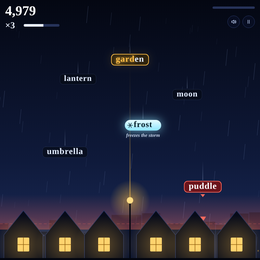
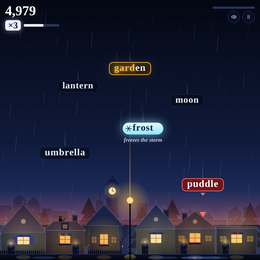
Word Rain: a varied, detailed town
Every run (and every daily) gets its own street, seeded: gable, steep, flat, mansard and tower houses with different walls, roofs, chimneys, doors, awnings, shutters, planters, fences and window light. Behind them a hazy skyline with a clock tower and a blinking beacon, pines and bare trees, mist. In front a wet road with puddles that the rain dimples and the lamp and windows reflect. Small life: chimney smoke that drifts with the wind, a weathervane, a cat on a roof, twinkling far windows. Each house's big lit window is still its life; the rest are furniture and a lost house goes dark all over.

Claude-Session: https://claude.ai/code/session_01PtZ1mk47fZhH4JVthMJCco

diff --git a/games/word_rain.html b/games/word_rain.html
@@ -416,30 +416,182 @@ function resize() {
   cv.width = Math.round(W * dpr); cv.height = Math.round(H * dpr);
   fs = clamp(16 + W * 0.014, 22, 36);
   groundH = clamp(H * 0.23, 90, 180);
-  roofY = H - groundH * 0.62;
+  roofY = H - groundH * 0.7;
   padTop = clamp(H * 0.17, 108, 132);
   lampX = W / 2; lampY = H - groundH * 1.02;
   ctx.setTransform(dpr, 0, 0, dpr, 0, 0);
   ctx.font = '600 ' + fs + 'px ' + FONT;
   charW = ctx.measureText('abcdefghijklmnopqrstuvwxyz').width / 26 / W + 0.0045;
   if (game) { game.cfg.charW = charW; game.cfg.aspect = W / (roofY - padTop); }
+  if (!town) town = makeTown((Math.random() * 4294967296) >>> 0);
   buildSky();
   const n = REDUCED ? 45 : clamp(Math.round(W * H / 5500), 90, 260);
   while (rain.length < n) rain.push({ x: rnd(0, 1), y: rnd(0, 1), d: Math.random() });
   rain.length = n;
 }
+/* ---------- the town: seeded, so every run (and every daily) has its own street ---------- */
+let town = null;
+const streetH = () => clamp(groundH * .1, 11, 20);
+function makeTown(seed) {
+  const r = WR.rng((seed ^ 0x9e3779b9) >>> 0), pick = a => a[Math.floor(r() * a.length)];
+  const roofs = ['gable', 'steep', 'flat', 'mansard', 'tower', pick(['gable', 'steep', 'mansard'])];
+  for (let i = roofs.length - 1; i > 0; i--) { const j = Math.floor(r() * (i + 1)); [roofs[i], roofs[j]] = [roofs[j], roofs[i]]; }
+  const walls = [['#0d1631', '#070b19'], ['#101a36', '#080c1c'], ['#0f1830', '#060a16'], ['#14172f', '#080a1a'], ['#0b1a2e', '#050d1a']];
+  const roofCols = ['#1a2447', '#201c3d', '#14304a', '#2a1f3a', '#17283f'];
+  const glows = ['255,206,110', '255,184,92', '255,224,160', '255,196,120'];
+  const accents = ['#6e2c3a', '#2c5b63', '#6b5a2a', '#3d3a73'];
+  const hs = roofs.map((roof, i) => ({
+    roof, w: roof === 'tower' ? .8 : .86 + .14 * r(), h: roof === 'flat' ? .95 + .25 * r() : .82 + .3 * r(),
+    chim: roof === 'flat' || roof === 'tower' ? 0 : (r() < .75 ? (r() < .5 ? -1 : 1) : 0), door: r() < .85, doorSide: r() < .5 ? -1 : 1,
+    awning: r() < .4, shutters: r() < .5, planter: r() < .5, fence: r() < .45, sign: roof === 'flat' && r() < .6,
+    wall: pick(walls), roofCol: pick(roofCols), glow: pick(glows), accent: pick(accents), extra: r() < .6 ? 2 : 1, flowers: pick(['#c0556b', '#d9a441', '#7a7fe0']), phase: r() * 9, acc: 0,
+  }));
+  const cat = hs.findIndex(h => h.roof === 'gable' || h.roof === 'mansard');
+  const trees = [], tx = [.03, .17, .33, .46, .54, .67, .83, .97];
+  for (const x of tx) if (r() < .85) trees.push({ x: x + (r() - .5) * .03, kind: r() < .6 ? 'pine' : 'bare', s: .8 + .5 * r() });
+  const puddles = [];
+  for (let k = 0; k < 6; k++) puddles.push({ x: .06 + .88 * r(), w: .04 + .05 * r() });
+  return { hs, cat, trees, puddles, seed, far: [], smoke: [], ripples: [], ripT: 0 };
+}
 function buildSky() {
   const c = document.createElement('canvas'); c.width = Math.round(W * dpr); c.height = Math.round(H * dpr);
   const g = c.getContext('2d'); g.setTransform(dpr, 0, 0, dpr, 0, 0);
-  const gr = g.createLinearGradient(0, 0, 0, H); gr.addColorStop(0, '#040712'); gr.addColorStop(.62, '#0f1a3b'); gr.addColorStop(1, '#1d2d5c');
+  const gr = g.createLinearGradient(0, 0, 0, H); gr.addColorStop(0, '#040712'); gr.addColorStop(.55, '#0f1a3b'); gr.addColorStop(.86, '#25356b'); gr.addColorStop(1, '#2d2a55');
   g.fillStyle = gr; g.fillRect(0, 0, W, H);
-  let seed = 11; const r = () => (seed = seed * 16807 % 2147483647) / 2147483647;
-  let x = -10;
-  while (x < W) { const w = 36 + r() * 56, h = groundH * (0.45 + r() * 0.4); g.fillStyle = '#0c1530'; g.fillRect(x, H - h, w, h);
-    for (let k = 0; k < 3; k++) if (r() < .4) { g.fillStyle = r() < .5 ? '#22305f' : 'rgba(255,191,71,.35)'; g.fillRect(x + 6 + r() * (w - 14), H - h + 8 + r() * (h - 24), 4, 5); }
-    x += w + 2; }
-  skyCache = c;
+  // a few stars where the clouds allow
+  const r = WR.rng((town ? town.seed : 7) + 5);
+  for (let i = 0; i < 26; i++) { g.fillStyle = 'rgba(210,225,255,' + (.12 + r() * .3) + ')'; g.fillRect(r() * W, r() * H * .4, 1.4, 1.4); }
+  const base = H - streetH(), gh = groundH;
+  // hills, then two skylines: hazy far, darker near
+  g.fillStyle = '#16204a'; g.beginPath(); g.moveTo(0, base);
+  for (let x = 0; x <= W; x += 12) g.lineTo(x, base - gh * (.5 + .16 * Math.sin(x / W * 5.2 + r() * 0) + .1 * Math.sin(x / W * 13)));
+  g.lineTo(W, base); g.fill();
+  town.far = [];
+  const skyline = (col, minH, maxH, minW, maxW, lit) => {
+    let x = -8; g.fillStyle = col;
+    while (x < W) {
+      const w = minW + r() * (maxW - minW), h = gh * (minH + r() * (maxH - minH)), t = r(), y = base - h;
+      g.fillStyle = col; g.fillRect(x, y, w, h);
+      if (t < .2) { g.beginPath(); g.moveTo(x, y); g.lineTo(x + w / 2, y - w * .45); g.lineTo(x + w, y); g.fill(); }
+      else if (t < .32) { g.fillRect(x + w * .45, y - gh * .16, 2, gh * .16); town.far.push({ x: x + w * .45 + 1, y: y - gh * .16, beacon: 1, ph: r() * 6 }); }
+      else if (t < .42) { g.fillRect(x + 3, y - 7, w * .3, 7); }
+      for (let k = 0, n = Math.floor(w * h / 520); k < n; k++) if (r() < lit) town.far.push({ x: x + 4 + r() * (w - 10), y: y + 6 + r() * (h - 14), ph: r() * 6, a: .25 + r() * .5 });
+      x += w + 1 + r() * 4;
+    }
+  };
+  skyline('#141e44', .45, .95, 26, 54, .35);
+  // the clock tower and the water tower stand out of the far skyline
+  const cx = W * (.2 + .6 * r()), th = gh * 1.18, tw = clamp(W * .045, 26, 44);
+  g.fillStyle = '#121b3f'; g.fillRect(cx - tw / 2, base - th, tw, th); g.beginPath(); g.moveTo(cx - tw / 2 - 3, base - th); g.lineTo(cx, base - th - tw * .9); g.lineTo(cx + tw / 2 + 3, base - th); g.fill();
+  town.clock = { x: cx, y: base - th + tw * .5, r: tw * .3 };
+  skyline('#0c1533', .3, .72, 22, 46, .3);
+  // mist where the street meets the sky
+  const mg = g.createLinearGradient(0, base - gh * .9, 0, base); mg.addColorStop(0, 'rgba(90,110,190,0)'); mg.addColorStop(1, 'rgba(90,110,190,.22)'); g.fillStyle = mg; g.fillRect(0, base - gh * .9, W, gh * .9);
+  // trees behind the houses
+  for (const t of town.trees) {
+    const x = t.x * W, h = gh * .66 * t.s; g.fillStyle = '#080e22';
+    if (t.kind === 'pine') { for (let k = 0; k < 4; k++) { const y = base - h * (.15 + k * .22), w = h * (.34 - k * .06); g.beginPath(); g.moveTo(x - w, y); g.lineTo(x, y - h * .34); g.lineTo(x + w, y); g.fill(); } g.fillRect(x - 2, base - h * .2, 4, h * .2); }
+    else { g.strokeStyle = '#080e22'; g.lineWidth = 3; g.lineCap = 'round'; const br = (x0, y0, a, l, d) => { if (d > 3) return; const x1 = x0 + Math.sin(a) * l, y1 = y0 - Math.cos(a) * l; g.lineWidth = Math.max(1, 4 - d); g.beginPath(); g.moveTo(x0, y0); g.lineTo(x1, y1); g.stroke(); br(x1, y1, a - .5, l * .72, d + 1); br(x1, y1, a + .45, l * .7, d + 1); }; br(x, base, 0, h * .3, 0); }
+  }
+  skyCache = g.canvas;
 }
+function drawFar(t) {
+  if (!town) return;
+  for (const f of town.far) {
+    if (f.beacon) { const a = REDUCED ? .6 : (Math.sin(t * 2 + f.ph) > .6 ? 1 : .15); ctx.fillStyle = 'rgba(255,90,80,' + a + ')'; ctx.fillRect(f.x - 1.5, f.y - 3, 3, 3); continue; }
+    const a = f.a * (REDUCED ? 1 : .75 + .25 * Math.sin(t * .6 + f.ph)); ctx.fillStyle = 'rgba(255,205,120,' + a + ')'; ctx.fillRect(f.x, f.y, 3, 4);
+  }
+  if (town.clock) { const c = town.clock, g = ctx.createRadialGradient(c.x, c.y, 0, c.x, c.y, c.r * 2.6); g.addColorStop(0, 'rgba(255,225,160,.5)'); g.addColorStop(1, 'rgba(255,225,160,0)'); ctx.fillStyle = g; ctx.fillRect(c.x - c.r * 3, c.y - c.r * 3, c.r * 6, c.r * 6);
+    ctx.fillStyle = '#ffe6a8'; ctx.beginPath(); ctx.arc(c.x, c.y, c.r, 0, 7); ctx.fill(); ctx.strokeStyle = '#3a2a08'; ctx.lineWidth = 1.4; ctx.beginPath(); ctx.moveTo(c.x, c.y); ctx.lineTo(c.x, c.y - c.r * .75); ctx.moveTo(c.x, c.y); ctx.lineTo(c.x + c.r * .5, c.y + c.r * .15); ctx.stroke(); }
+}
+function roofGeom(T, hx, hw, bodyH, base) {
+  const topY = base - bodyH; let rh = 0, cut = hw / 2;
+  if (T.roof === 'gable') rh = hw * .42; else if (T.roof === 'steep') rh = hw * .62; else if (T.roof === 'mansard') rh = hw * .24; else if (T.roof === 'tower') rh = hw * .6; else rh = 0;
+  return { topY, rh, hw };
+}
+function drawHouse(i, dt, t) {
+  const T = town.hs[i], h = houses[i], hx = HOUSES[i] * W, st = streetH(), base = H - st;
+  const hw = clamp(W * .17, 56, 150) * T.w, bodyH = groundH * .4 * T.h * (T.roof === 'tower' ? 1.25 : 1);
+  const bw = T.roof === 'tower' ? hw * .82 : hw, topY = base - bodyH, left = hx - bw / 2, right = hx + bw / 2;
+  let on = h.lit ? 1 : 0;
+  if (h.flick > 0) { h.flick = Math.max(0, h.flick - dt * 1.6); on = h.lit ? 1 : (Math.sin(h.flick * 38) > 0 && h.flick > .25 ? 1 : 0); }
+  h.glow = Math.max(0, h.glow - dt * 1.2);
+  const rh = roofGeom(T, hx, hw, bodyH, base).rh, roofW = hw + (T.roof === 'flat' ? 0 : hw * .1);
+  const roofPath = () => {
+    ctx.beginPath();
+    if (T.roof === 'flat') { ctx.rect(left - 3, topY - 6, bw + 6, 6); }
+    else if (T.roof === 'mansard') { ctx.moveTo(hx - roofW / 2, topY); ctx.lineTo(hx - bw * .3, topY - rh); ctx.lineTo(hx + bw * .3, topY - rh); ctx.lineTo(hx + roofW / 2, topY); }
+    else if (T.roof === 'tower') { ctx.moveTo(hx - roofW / 2, topY); ctx.lineTo(hx, topY - rh); ctx.lineTo(hx + roofW / 2, topY); }
+    else { ctx.moveTo(hx - roofW / 2, topY + 2); ctx.lineTo(hx, topY - rh); ctx.lineTo(hx + roofW / 2, topY + 2); }
+    ctx.closePath();
+  };
+  const slopeY = x => { const d = Math.abs(x - hx) / (roofW / 2); return T.roof === 'mansard' ? topY - rh * Math.min(1, (1 - d) / .4) : topY - rh * (1 - d); };
+  // chimney, behind the roof, with smoke while the house is lit
+  if (T.chim) {
+    const cxx = hx + T.chim * bw * .26, cy = slopeY(cxx) - bw * .13, cw = bw * .12;
+    ctx.fillStyle = '#0a1024'; ctx.fillRect(cxx - cw / 2, cy, cw, bw * .2); ctx.fillStyle = '#18224a'; ctx.fillRect(cxx - cw / 2 - 1.5, cy - 3, cw + 3, 3.5);
+    if (on && !REDUCED && mode !== 'pause') { T.acc += dt; if (T.acc > .35) { T.acc = 0; town.smoke.push({ x: cxx, y: cy - 4, vx: -14 - 6 * WR.tierIndex(game ? game.wave : 1), vy: -26, r: 3, t: 0, life: 2.6 }); } }
+  }
+  // roof first for towers (spire), body, roof, details
+  ctx.fillStyle = T.wall[0]; ctx.strokeStyle = '#243464'; ctx.lineWidth = 1.4;
+  const wg = ctx.createLinearGradient(0, topY, 0, base); wg.addColorStop(0, T.wall[0]); wg.addColorStop(1, T.wall[1]); ctx.fillStyle = wg;
+  ctx.fillRect(left, topY, bw, bodyH); ctx.strokeRect(left, topY, bw, bodyH);
+  // siding lines and the lamp's warm light on the nearer wall
+  ctx.save(); ctx.beginPath(); ctx.rect(left, topY, bw, bodyH); ctx.clip(); ctx.strokeStyle = 'rgba(160,185,255,.07)'; ctx.lineWidth = 1;
+  for (let y = topY + 7; y < base; y += 7) { ctx.beginPath(); ctx.moveTo(left, y); ctx.lineTo(right, y); ctx.stroke(); }
+  const lamp = clamp(1 - Math.abs(hx - lampX) / (W * .3), 0, 1), lg = ctx.createLinearGradient(left, 0, right, 0), warm = .2 * lamp, side = hx < lampX;
+  lg.addColorStop(side ? 1 : 0, 'rgba(255,191,71,' + warm + ')'); lg.addColorStop(side ? .35 : .65, 'rgba(255,191,71,0)'); ctx.fillStyle = lg; ctx.fillRect(left, topY, bw, bodyH); ctx.restore();
+  ctx.fillStyle = T.roofCol; roofPath(); ctx.fill(); ctx.strokeStyle = 'rgba(140,165,255,.35)'; ctx.lineWidth = 1.4; ctx.stroke();
+  if (T.roof !== 'flat') { ctx.save(); roofPath(); ctx.clip(); ctx.strokeStyle = 'rgba(0,0,10,.28)'; ctx.lineWidth = 1; for (let y = topY - rh + 5; y < topY + 2; y += 5) { ctx.beginPath(); ctx.moveTo(hx - roofW, y); ctx.lineTo(hx + roofW, y); ctx.stroke(); } ctx.restore(); }
+  if (T.roof === 'flat') { ctx.strokeStyle = '#2a3a70'; ctx.lineWidth = 1.2; ctx.beginPath(); const ax = hx + bw * .25; ctx.moveTo(ax, topY - 6); ctx.lineTo(ax, topY - 24); ctx.moveTo(ax - 6, topY - 20); ctx.lineTo(ax + 6, topY - 20); ctx.moveTo(ax - 4, topY - 15); ctx.lineTo(ax + 4, topY - 15); ctx.stroke(); }
+  if (T.roof === 'tower' || T.roof === 'steep') { // weathervane
+    const px = hx, py = topY - rh, a = REDUCED ? .6 : Math.sin(t * .5 + T.phase) * .9 + .4; ctx.strokeStyle = '#3a4a85'; ctx.lineWidth = 1.4; ctx.beginPath(); ctx.moveTo(px, py); ctx.lineTo(px, py - 12); ctx.moveTo(px - 7 * Math.cos(a), py - 8 - 2 * Math.sin(a)); ctx.lineTo(px + 7 * Math.cos(a), py - 8 + 2 * Math.sin(a)); ctx.stroke(); ctx.fillStyle = '#3a4a85'; ctx.beginPath(); ctx.arc(px + 7 * Math.cos(a), py - 8 + 2 * Math.sin(a), 1.8, 0, 7); ctx.fill(); }
+  const glow = 'rgba(' + T.glow + ',';
+  // windows. The big one is this house's life; the others are only furniture
+  const ww = Math.max(11, bw * .27), wh = Math.max(14, bodyH * .36), wx = hx - ww / 2, wy = topY + bodyH * .2 + (T.door ? 0 : bodyH * .1);
+  const litA = on ? 1 : 0;
+  const win = (x, y, w, hgt, a, life) => {
+    if (litA && a > 0) { ctx.fillStyle = 'rgba(' + T.glow + ',' + (life ? 1 : a) + ')'; rr(x, y, w, hgt, 2.5); ctx.fill(); ctx.strokeStyle = 'rgba(70,40,0,.65)'; ctx.lineWidth = 1.3; ctx.beginPath(); ctx.moveTo(x + w / 2, y); ctx.lineTo(x + w / 2, y + hgt); ctx.moveTo(x, y + hgt / 2); ctx.lineTo(x + w, y + hgt / 2); ctx.stroke(); }
+    else { ctx.fillStyle = '#0b1230'; ctx.strokeStyle = '#2b3a6b'; ctx.lineWidth = 1; rr(x, y, w, hgt, 2.5); ctx.fill(); ctx.stroke(); }
+  };
+  if (on || h.glow > 0) { const gx = hx, gy = wy + wh / 2, gg = ctx.createRadialGradient(gx, gy, 2, gx, gy, bw * .85); gg.addColorStop(0, glow + (.34 * litA + .5 * h.glow) + ')'); gg.addColorStop(1, glow + '0)'); ctx.fillStyle = gg; ctx.fillRect(gx - bw, gy - bw, bw * 2, bw * 2); }
+  if (T.shutters) { ctx.fillStyle = T.accent; ctx.fillRect(wx - ww * .38, wy, ww * .32, wh); ctx.fillRect(wx + ww * 1.06, wy, ww * .32, wh); }
+  win(wx, wy, ww, wh, 1, true);
+  if (on && T.extra === 2 && bw > 70) { const sw = ww * .6; win(left + bw * .08, wy + wh * .25, sw, wh * .6, .35); win(right - bw * .08 - sw, wy + wh * .25, sw, wh * .6, .35); }
+  if (T.roof === 'gable' || T.roof === 'steep') { const ay = topY - rh * .38, ar = Math.max(3.5, bw * .06); ctx.fillStyle = litA ? 'rgba(' + T.glow + ',.45)' : '#0b1230'; ctx.strokeStyle = '#2b3a6b'; ctx.lineWidth = 1; ctx.beginPath(); ctx.arc(hx, ay, ar, 0, 7); ctx.fill(); ctx.stroke(); }
+  if (T.roof === 'mansard') { const dw = bw * .2; ctx.fillStyle = T.roofCol; ctx.fillRect(hx - dw / 2, topY - rh * .85, dw, rh * .8); ctx.fillStyle = litA ? 'rgba(' + T.glow + ',.4)' : '#0b1230'; ctx.fillRect(hx - dw * .3, topY - rh * .65, dw * .6, rh * .45); }
+  if (T.awning) { const ax = wx - 4, aw = ww + 8, ay = wy - 5; for (let k = 0; k < 4; k++) { ctx.fillStyle = k % 2 ? '#2a3260' : T.accent; ctx.beginPath(); ctx.moveTo(ax + k * aw / 4, ay); ctx.lineTo(ax + (k + 1) * aw / 4, ay); ctx.lineTo(ax + (k + 1) * aw / 4 + 1.5, ay + 7); ctx.lineTo(ax + k * aw / 4 - 1.5, ay + 7); ctx.fill(); } }
+  if (T.planter) { ctx.fillStyle = '#12182f'; ctx.fillRect(wx - 3, wy + wh, ww + 6, 5); ctx.fillStyle = T.flowers; for (let k = 0; k < 4; k++) { ctx.beginPath(); ctx.arc(wx + 2 + k * (ww - 2) / 3, wy + wh - 1, 2, 0, 7); ctx.fill(); } }
+  if (T.door) { const dw = bw * .17, dx = hx + T.doorSide * bw * .28 - dw / 2, dh = bodyH * .42; ctx.fillStyle = '#0a0f22'; rr(dx, base - dh, dw, dh, 2); ctx.fill(); ctx.strokeStyle = '#2b3a6b'; ctx.lineWidth = 1; ctx.stroke(); ctx.fillStyle = '#c9a24a'; ctx.fillRect(dx + dw * .75, base - dh * .45, 2, 2);
+    if (on) { const lg2 = ctx.createRadialGradient(dx + dw / 2, base - dh - 4, 0, dx + dw / 2, base - dh - 4, 16); lg2.addColorStop(0, glow + '.5)'); lg2.addColorStop(1, glow + '0)'); ctx.fillStyle = lg2; ctx.fillRect(dx - 14, base - dh - 20, dw + 28, 30); ctx.fillStyle = glow + '1)'; ctx.fillRect(dx + dw / 2 - 1.5, base - dh - 6, 3, 3); } }
+  if (T.sign) { ctx.fillStyle = '#10183a'; ctx.fillRect(left + 4, topY + 4, bw * .5, 8); ctx.fillStyle = on ? glow + '.8)' : '#26346a'; ctx.fillRect(left + 7, topY + 7, bw * .5 - 6, 2); }
+  if (T.fence) { ctx.fillStyle = '#060a18'; for (let x = left - 4; x < right + 4; x += 6) { ctx.fillRect(x, base - 10, 3, 10); ctx.beginPath(); ctx.moveTo(x, base - 10); ctx.lineTo(x + 1.5, base - 13); ctx.lineTo(x + 3, base - 10); ctx.fill(); } ctx.fillRect(left - 4, base - 6, bw + 8, 1.6); }
+  // the cat on its roof, sitting on the ridge
+  if (town.cat === i) { const sx = hx - bw * .12, sy = slopeY(sx) + 1; ctx.fillStyle = '#04070f'; ctx.beginPath(); ctx.ellipse(sx, sy - 5, 5, 6, 0, 0, 7); ctx.arc(sx, sy - 12, 3.6, 0, 7); ctx.moveTo(sx - 3.6, sy - 13); ctx.lineTo(sx - 3, sy - 17.5); ctx.lineTo(sx - 1, sy - 15); ctx.moveTo(sx + 3.6, sy - 13); ctx.lineTo(sx + 3, sy - 17.5); ctx.lineTo(sx + 1, sy - 15); ctx.fill();
+    const tail = REDUCED ? 0 : Math.sin(t * 1.8) * 3; ctx.strokeStyle = '#04070f'; ctx.lineWidth = 2; ctx.lineCap = 'round'; ctx.beginPath(); ctx.moveTo(sx + 4, sy - 2); ctx.quadraticCurveTo(sx + 11, sy - 2, sx + 11 + tail, sy - 9); ctx.stroke();
+    if (REDUCED || (t % 5) < 4.7) { ctx.fillStyle = '#9dff9a'; ctx.fillRect(sx - 2, sy - 12.6, 1.6, 1.6); ctx.fillRect(sx + 1, sy - 12.6, 1.6, 1.6); } }
+  // a dead house stays dark all over
+  if (!on && !h.lit) { ctx.fillStyle = 'rgba(2,4,12,.28)'; ctx.fillRect(left, topY, bw, bodyH); }
+}
+function drawStreet(dt, t) {
+  const st = streetH(), y0 = H - st;
+  // chimney smoke, drifting with the wind
+  for (let i = town.smoke.length - 1; i >= 0; i--) {
+    const s = town.smoke[i]; s.t += dt; if (s.t > s.life) { town.smoke.splice(i, 1); continue; }
+    s.x += s.vx * dt; s.y += s.vy * dt; s.r += dt * 4.5; const k = s.t / s.life;
+    ctx.fillStyle = 'rgba(150,170,220,' + .14 * (1 - k) * Math.min(1, s.t * 3) + ')'; ctx.beginPath(); ctx.arc(s.x, s.y, s.r, 0, 7); ctx.fill();
+  }
+  // wet road: a dark band with a sheen and the lamp's long reflection
+  const rg = ctx.createLinearGradient(0, y0, 0, H); rg.addColorStop(0, '#0a1126'); rg.addColorStop(1, '#03060f'); ctx.fillStyle = rg; ctx.fillRect(0, y0, W, st);
+  ctx.fillStyle = 'rgba(120,150,255,.12)'; ctx.fillRect(0, y0, W, 1.4);
+  const lr = ctx.createLinearGradient(0, y0, 0, H); lr.addColorStop(0, 'rgba(255,191,71,.5)'); lr.addColorStop(1, 'rgba(255,191,71,.05)'); ctx.fillStyle = lr; ctx.beginPath(); ctx.ellipse(lampX, y0 + st * .55, 18 + lampPulse * 6, st * .5, 0, 0, 7); ctx.fill();
+  for (let i = 0; i < HOUSES.length; i++) if (houses[i].lit) { ctx.fillStyle = 'rgba(' + town.hs[i].glow + ',.16)'; ctx.beginPath(); ctx.ellipse(HOUSES[i] * W, y0 + st * .55, 22, st * .38, 0, 0, 7); ctx.fill(); }
+  // puddles that catch the sky, and the rain dimpling them
+  for (const p of town.puddles) { const px = p.x * W, pw = p.w * W; ctx.fillStyle = 'rgba(70,95,170,.35)'; ctx.beginPath(); ctx.ellipse(px, y0 + st * .62, pw, st * .22, 0, 0, 7); ctx.fill(); }
+  if (!REDUCED && mode !== 'pause' && !(game && game.freeze > 0)) { town.ripT -= dt; if (town.ripT <= 0) { town.ripT = rnd(.04, .12) / (.7 + .15 * (game ? WR.tierIndex(game.wave) : 1)); const p = town.puddles[Math.floor(Math.random() * town.puddles.length)]; town.ripples.push({ x: (p.x + rnd(-.9, .9) * p.w) * W, y: y0 + st * .62 + rnd(-1, 1) * st * .14, t: 0 }); } }
+  for (let i = town.ripples.length - 1; i >= 0; i--) { const r = town.ripples[i]; r.t += dt; if (r.t > .7) { town.ripples.splice(i, 1); continue; } const k = r.t / .7; ctx.strokeStyle = 'rgba(190,210,255,' + .5 * (1 - k) + ')'; ctx.lineWidth = 1; ctx.beginPath(); ctx.ellipse(r.x, r.y, 2 + 9 * ease(k), 1 + 3 * ease(k), 0, 0, 7); ctx.stroke(); }
+}
+
 new ResizeObserver(resize).observe(stage);
 addEventListener('resize', resize);
 
@@ -481,6 +633,7 @@ function newRun(isDaily) {
   const seedParam = (location.search.match(/[?&]seed=([^&]+)/) || [])[1];
   const seed = isDaily ? WR.hashSeed('wr-' + today()) : seedParam ? WR.hashSeed(decodeURIComponent(seedParam)) : (Math.random() * 4294967296) >>> 0;
   game = WR.create({ seed, charW, aspect: W / (roofY - padTop), intro: !save.seen && !isDaily, lamps: HOUSES.length });
+  town = makeTown(seed); buildSky();
   fx.parts.length = fx.bolts.length = fx.rings.length = fx.pops.length = 0;
   houses.forEach(h => { h.lit = true; h.flick = 0; h.glow = 0; });
   dispScore = 0; shake = flash = redFlash = frostA = 0; lampPulse = 0; hintOn = !save.seen;
@@ -684,28 +837,12 @@ function drawWord(w, dt) {
     ctx.fillText(touch ? 'tap the letters' : 'type it', x, y + size * 1.1); ctx.restore();
   }
 }
-function drawHouse(i) {
-  const hx = HOUSES[i] * W, hw = clamp(W * .16, 54, 120), hh = groundH * .66, top = H - hh, h = houses[i];
-  ctx.fillStyle = '#070b19'; ctx.strokeStyle = '#243464'; ctx.lineWidth = 1.5;
-  ctx.beginPath(); ctx.moveTo(hx - hw / 2, H); ctx.lineTo(hx - hw / 2, top + hh * .35); ctx.lineTo(hx, top - hh * .28); ctx.lineTo(hx + hw / 2, top + hh * .35); ctx.lineTo(hx + hw / 2, H); ctx.closePath(); ctx.fill(); ctx.stroke();
-  const ww = hw * .3, wh = hh * .36, wxx = hx - ww / 2, wyy = top + hh * .42;
-  let on = h.lit ? 1 : 0;
-  if (h.flick > 0) { h.flick = Math.max(0, h.flick - 0.016 * 1.6); on = h.lit ? 1 : (Math.sin(h.flick * 38) > 0 && h.flick > .25 ? 1 : 0); }
-  h.glow = Math.max(0, h.glow - 0.016 * 1.2);
-  if (on || h.glow > 0) {
-    const a = on ? 1 : 0;
-    const gg = ctx.createRadialGradient(hx, wyy + wh / 2, 2, hx, wyy + wh / 2, hw * .75); gg.addColorStop(0, 'rgba(255,191,71,' + (.32 * a + .5 * h.glow) + ')'); gg.addColorStop(1, 'rgba(255,191,71,0)');
-    ctx.fillStyle = gg; ctx.fillRect(hx - hw, wyy - hw * .6, hw * 2, hw * 1.4);
-    ctx.fillStyle = '#ffd36e'; rr(wxx, wyy, ww, wh, 3); ctx.fill();
-    ctx.strokeStyle = '#8a5a08'; ctx.lineWidth = 1.5; ctx.beginPath(); ctx.moveTo(hx, wyy); ctx.lineTo(hx, wyy + wh); ctx.moveTo(wxx, wyy + wh / 2); ctx.lineTo(wxx + ww, wyy + wh / 2); ctx.stroke();
-  } else { ctx.fillStyle = '#0d1430'; ctx.strokeStyle = '#2b3a6b'; ctx.lineWidth = 1; rr(wxx, wyy, ww, wh, 3); ctx.fill(); ctx.stroke(); }
-}
 function drawLamp(dt) {
   lampPulse = Math.max(0, lampPulse - dt * 3);
   const r = 62 + lampPulse * 42, a = .5 + lampPulse * .35;
   const g = ctx.createRadialGradient(lampX, lampY, 2, lampX, lampY, r); g.addColorStop(0, 'rgba(255,191,71,' + a + ')'); g.addColorStop(1, 'rgba(255,191,71,0)');
   ctx.fillStyle = g; ctx.fillRect(lampX - r, lampY - r, r * 2, r * 2);
-  ctx.fillStyle = '#03060f'; ctx.fillRect(lampX - 2, lampY, 4, H - lampY);
+  ctx.fillStyle = '#03060f'; ctx.fillRect(lampX - 2, lampY, 4, H - lampY); ctx.fillRect(lampX - 5, H - streetH() - 6, 10, 6);
   ctx.fillStyle = '#ffdc84'; ctx.beginPath(); ctx.arc(lampX, lampY, 10 + lampPulse * 2, 0, 7); ctx.fill();
 }
 function frame(ts) {
@@ -729,6 +866,7 @@ function frame(ts) {
 function draw(dt, frozen) {
   ctx.setTransform(dpr, 0, 0, dpr, 0, 0);
   ctx.drawImage(skyCache, 0, 0, W, H);
+  drawFar(performance.now() / 1000);
   shake = Math.max(0, shake - dt * 2.2);
   const sx = shake * 9 * (Math.random() - .5) * 2, sy = shake * 6 * (Math.random() - .5) * 2;
   ctx.save(); ctx.translate(sx, sy);
@@ -783,8 +921,9 @@ function draw(dt, frozen) {
     const sc = 1 + .45 * Math.max(0, 1 - p.t / .18); ctx.globalAlpha = 1 - ease(Math.max(0, p.t - .3) / .8) * .95; ctx.fillStyle = '#ffd27a'; ctx.font = '700 ' + Math.round(fs * 1.7 * sc) + 'px ' + FONT; ctx.shadowColor = '#050914'; ctx.shadowBlur = 6; ctx.fillText(p.text, p.x, p.y - ease(p.t / .9) * 40); ctx.shadowBlur = 0;
   }
   ctx.globalAlpha = 1;
-  for (let i = 0; i < HOUSES.length; i++) drawHouse(i);
-  ctx.fillStyle = '#03060f'; ctx.fillRect(0, H - 6, W, 6);
+  const tt = performance.now() / 1000;
+  for (let i = 0; i < HOUSES.length; i++) drawHouse(i, dt, tt);
+  drawStreet(dt, tt);
   drawLamp(dt);
   ctx.restore();
   // screen washes
